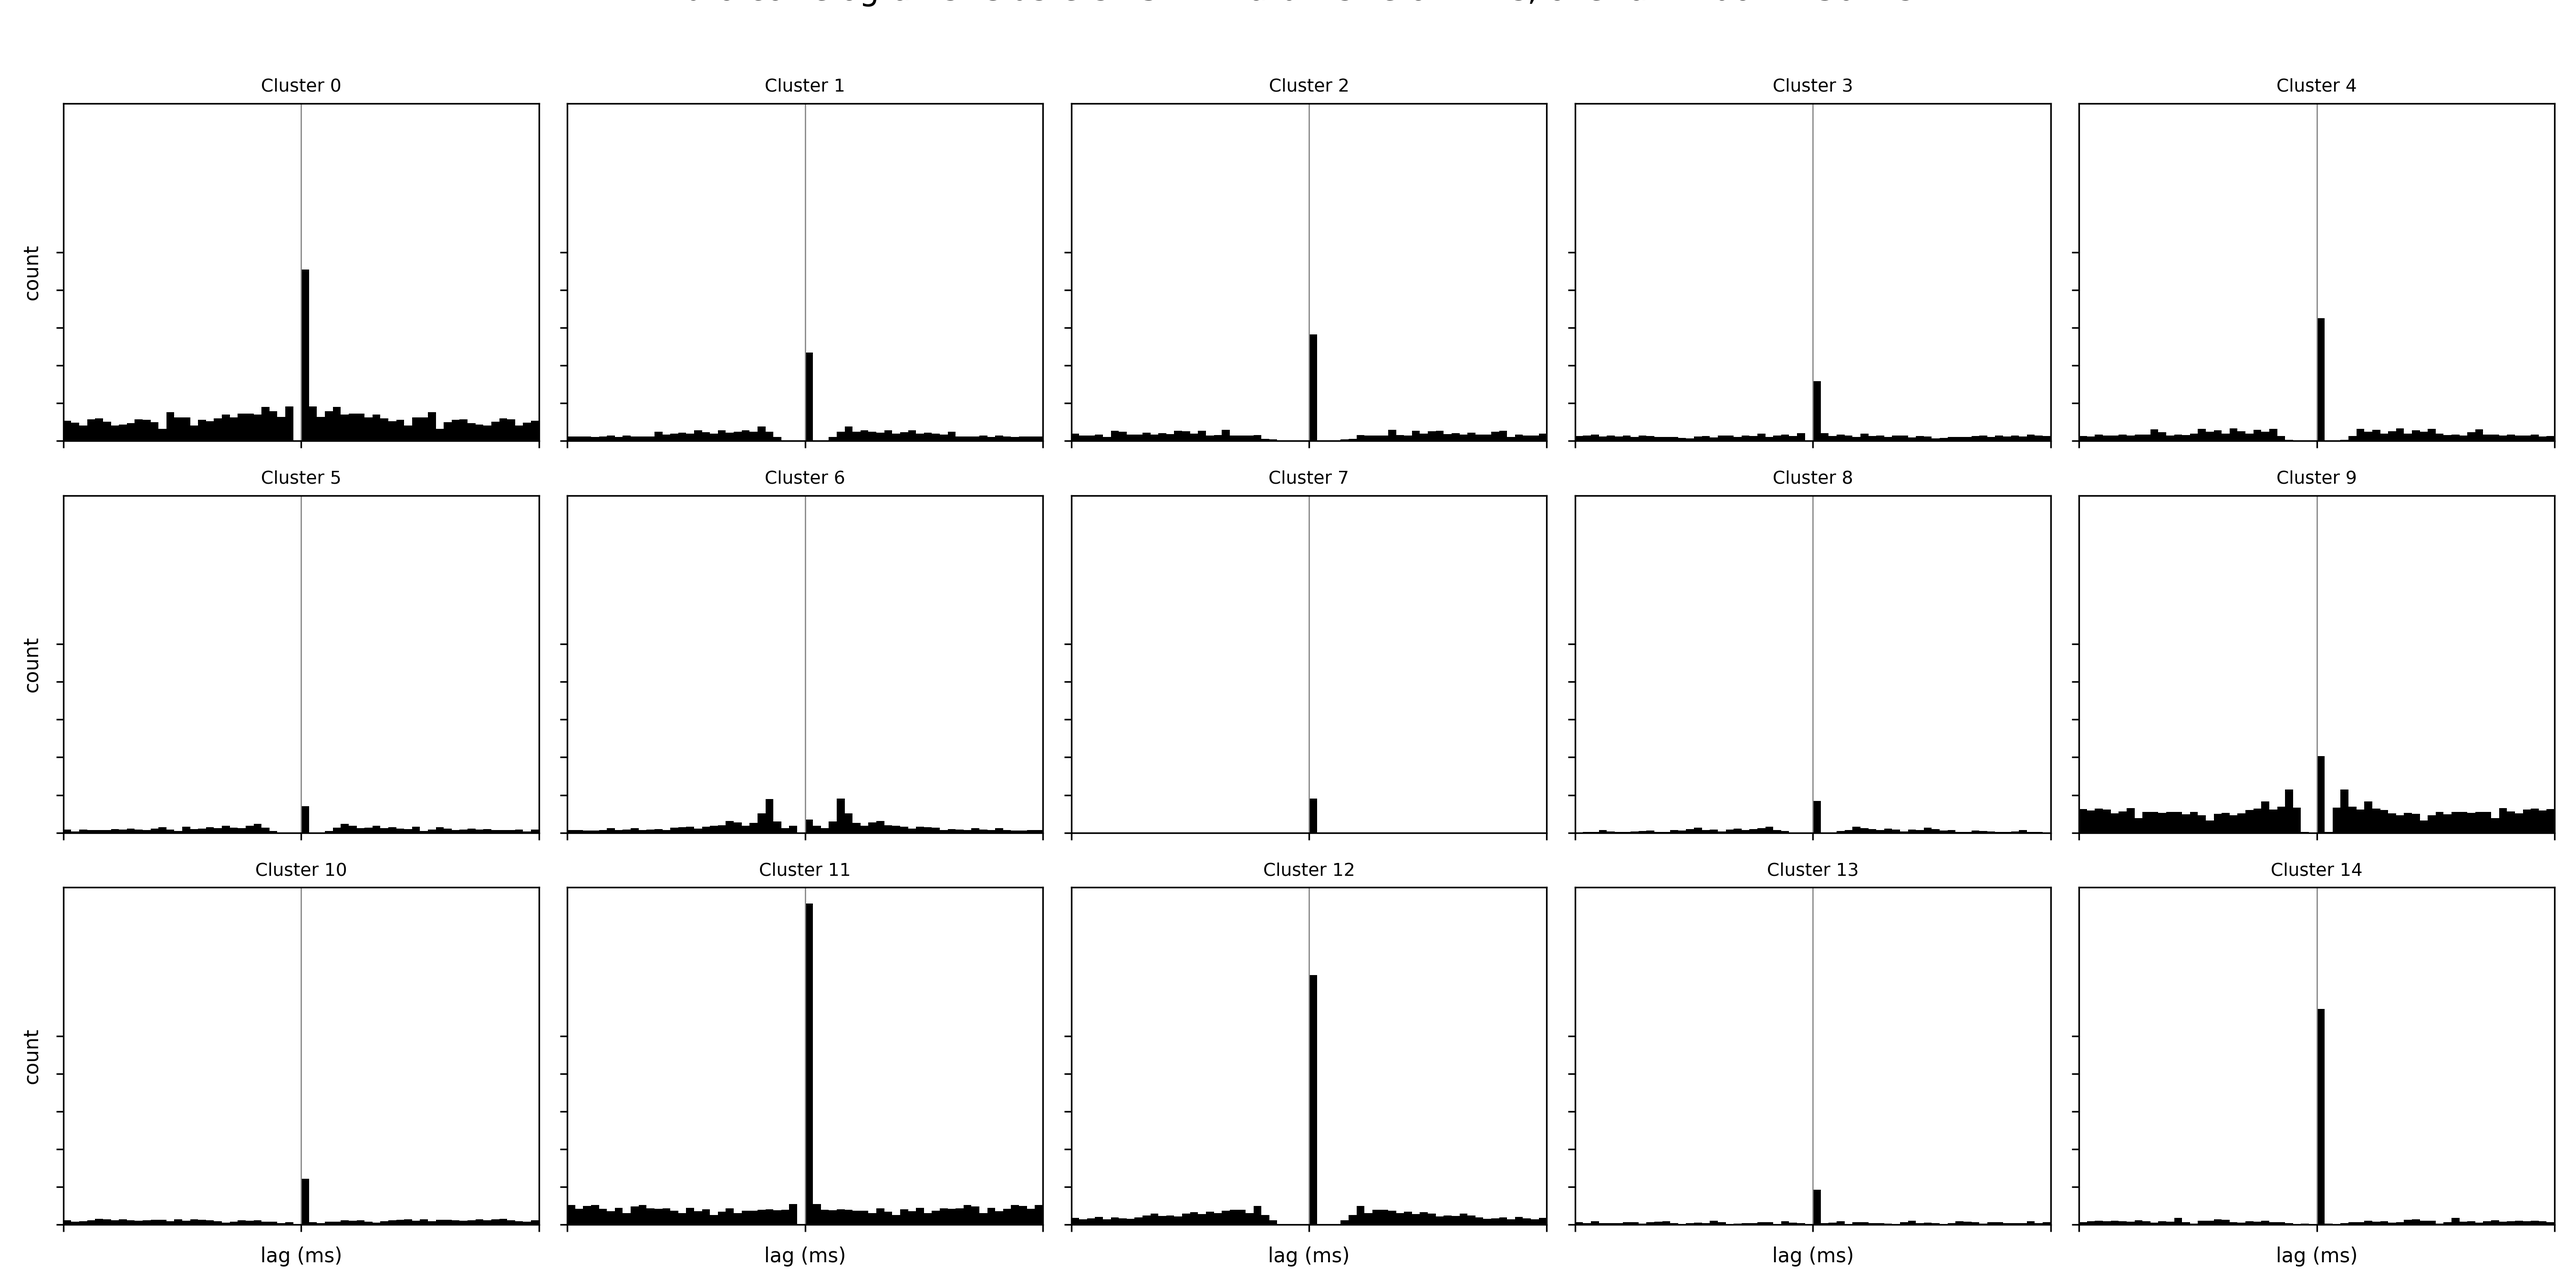
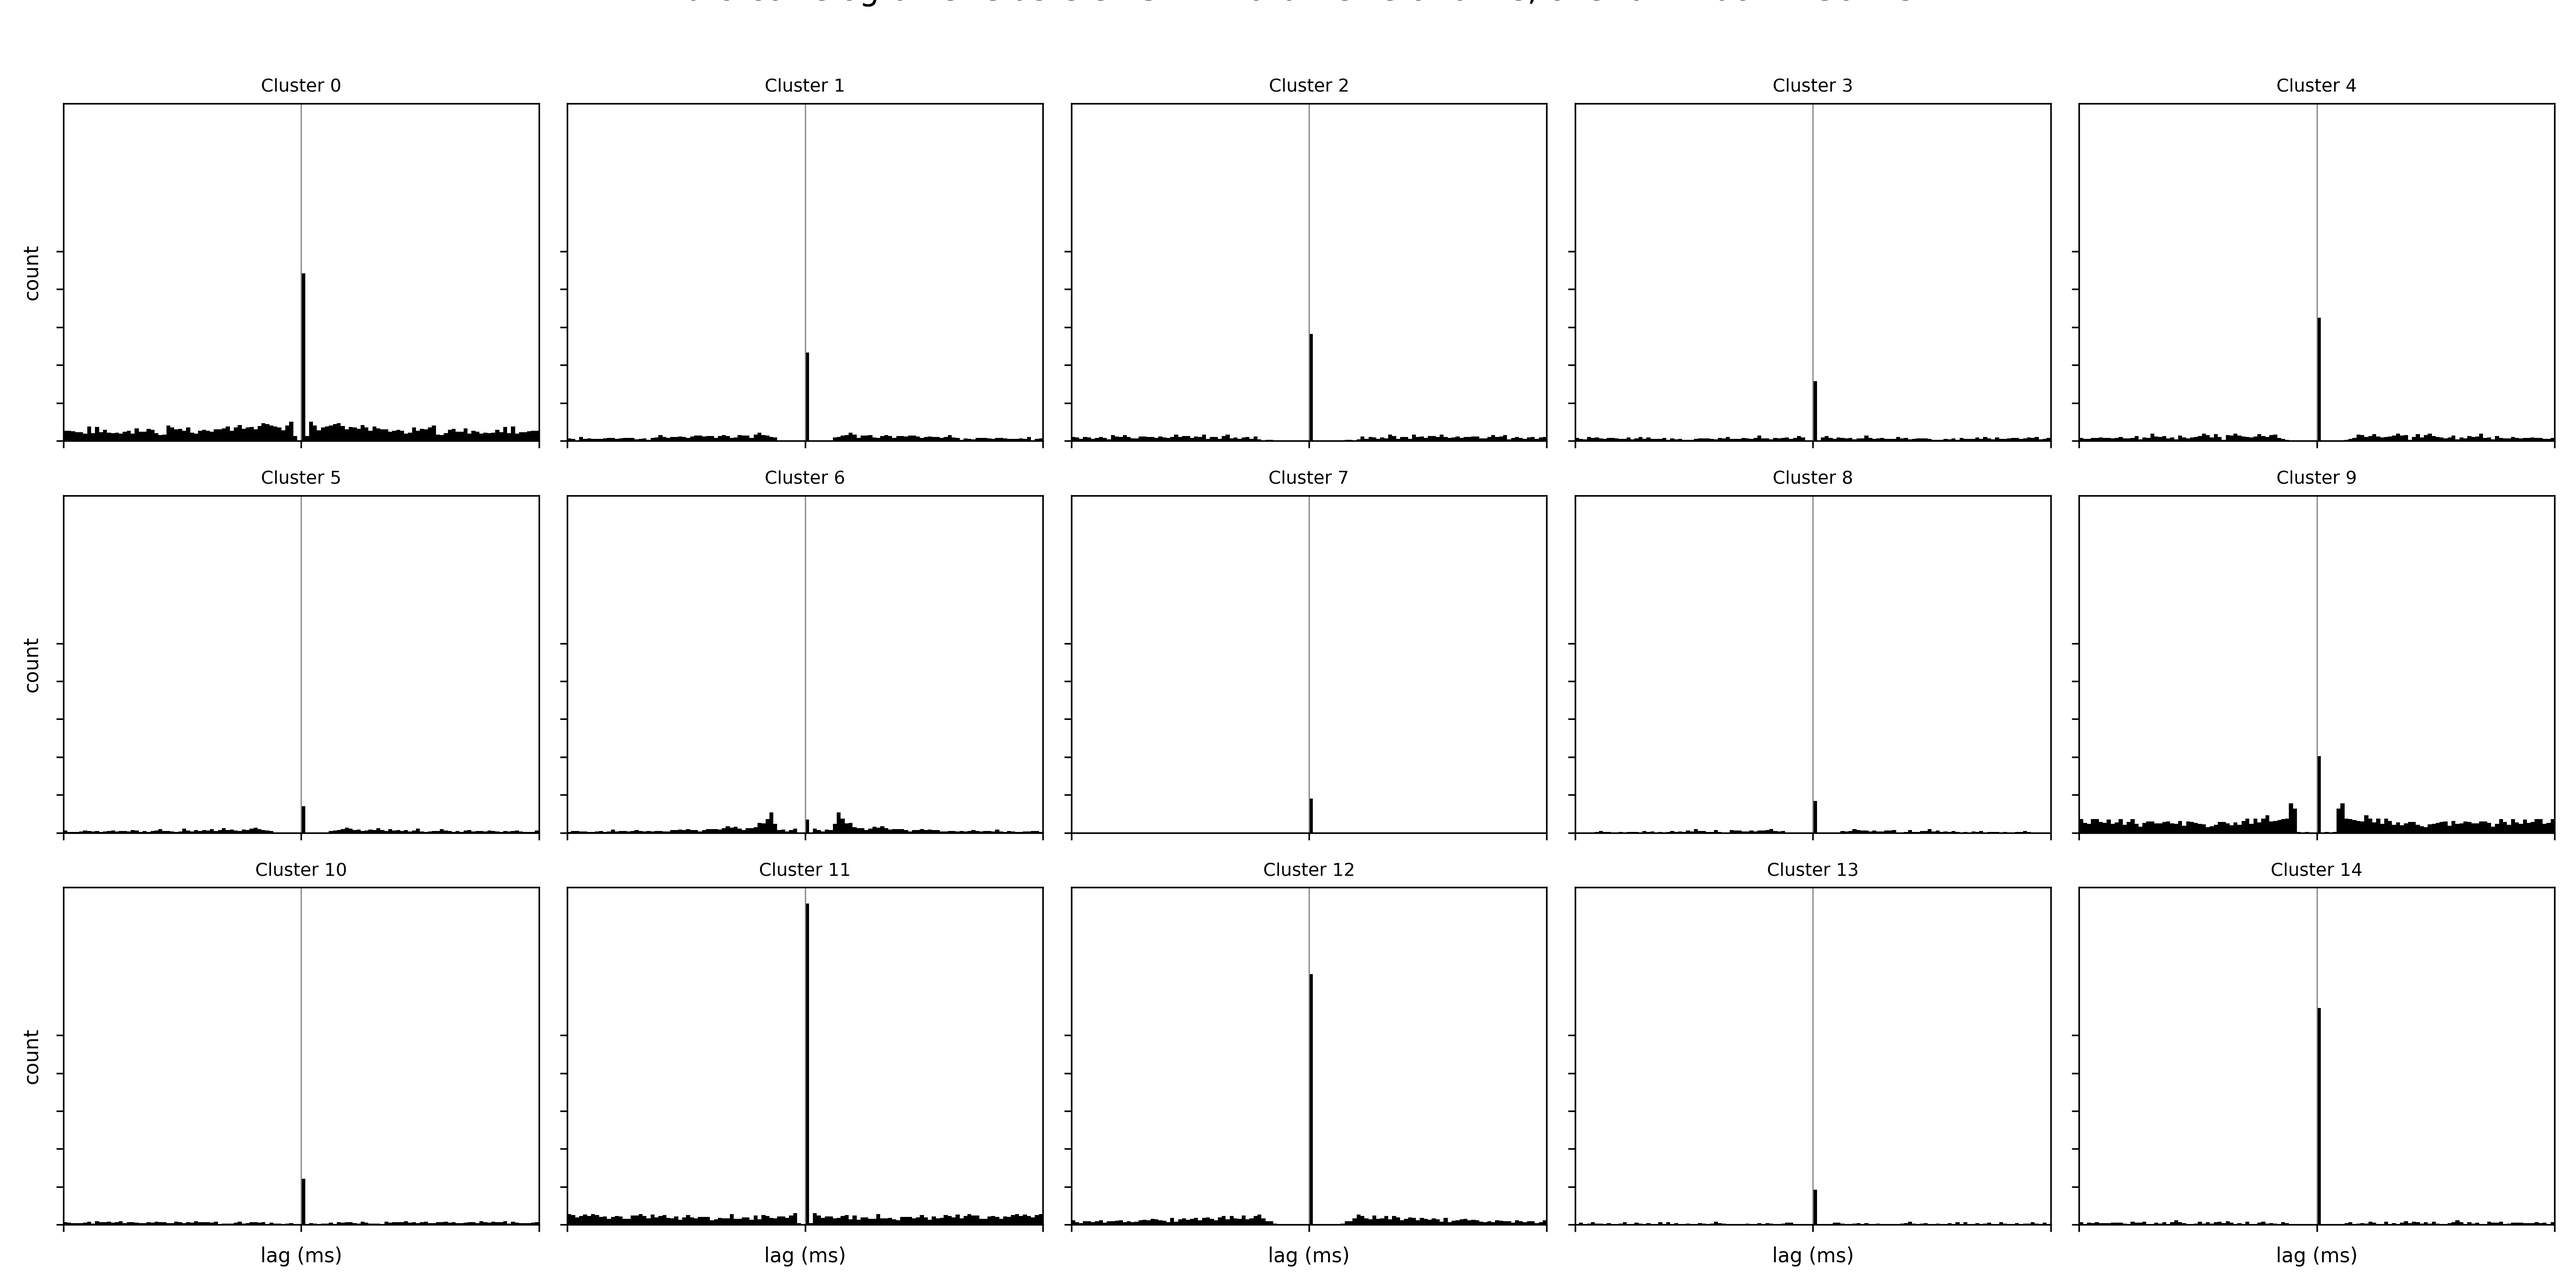
Try to use bin size .0005.

diff --git a/notebooks/task5.py b/notebooks/task5.py
@@ -322,7 +322,7 @@ assert np.array_equal(result_auto, expected_counts_auto), "Test Case 1 Failed!"
 print("Test Case 1 Passed!\n")
 
 #%% # 0. choose bin size and window once
-bin_size = 0.001       # 1 ms
+bin_size = 0.0005       # .1 ms
 window   = 0.030       # ±30 ms
 # TODO: OFF by ONE ?
 num_bins = int((2 * window) / bin_size)  # Ensures exact window coverage
@@ -333,7 +333,11 @@ zero_lag_bin = np.searchsorted(edges, 0) - 1
 
 # 1. convert sample indices → seconds, if you haven’t yet
 fs = 30_000 # 30 kHz is the sampling rate
-times_by_cluster = [idx / fs for idx in idx_by_cluster]   # length = best_K
+times_by_cluster = []
+for idx in idx_by_cluster:
+    # keep only one entry per sample index
+    unique_idx = np.unique(idx)
+    times_by_cluster.append(unique_idx / fs)      # seconds
 
 # 2. build the K × K correlogram matrix
 centres = edges[:-1] + bin_size/2
@@ -458,5 +462,5 @@ def run_plot_autocorrelograms(corr, bin_size: float = 0.001, window: float = 0.0
     plt.show()
     return fig
 
-run_plot_autocorrelograms(corr, bin_size=0.001, window=0.030)
+run_plot_autocorrelograms(corr, bin_size=bin_size, window=window)
 # %%
